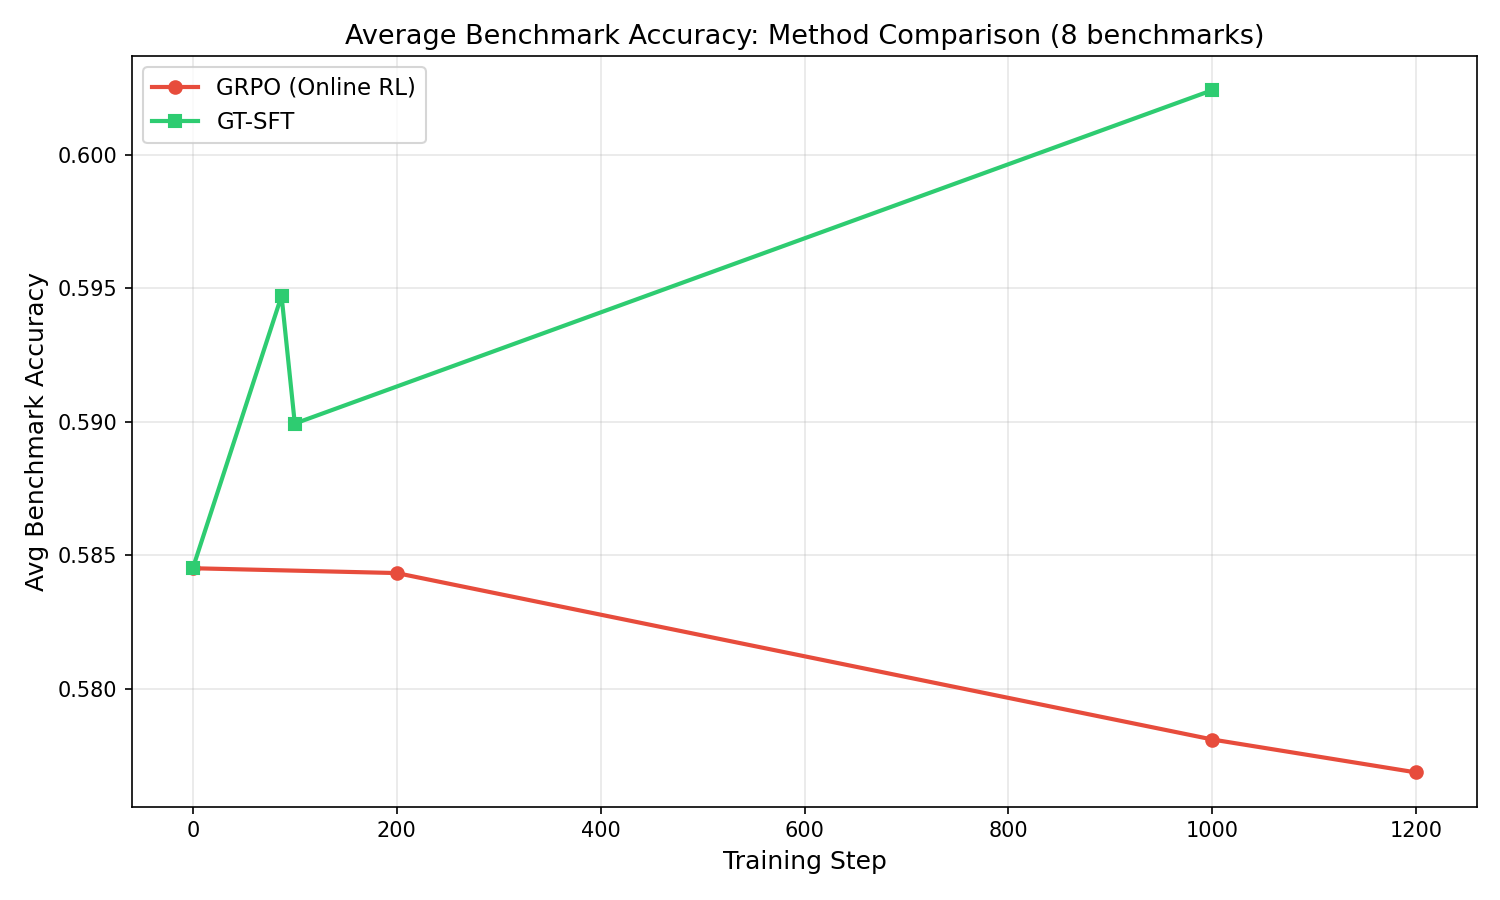
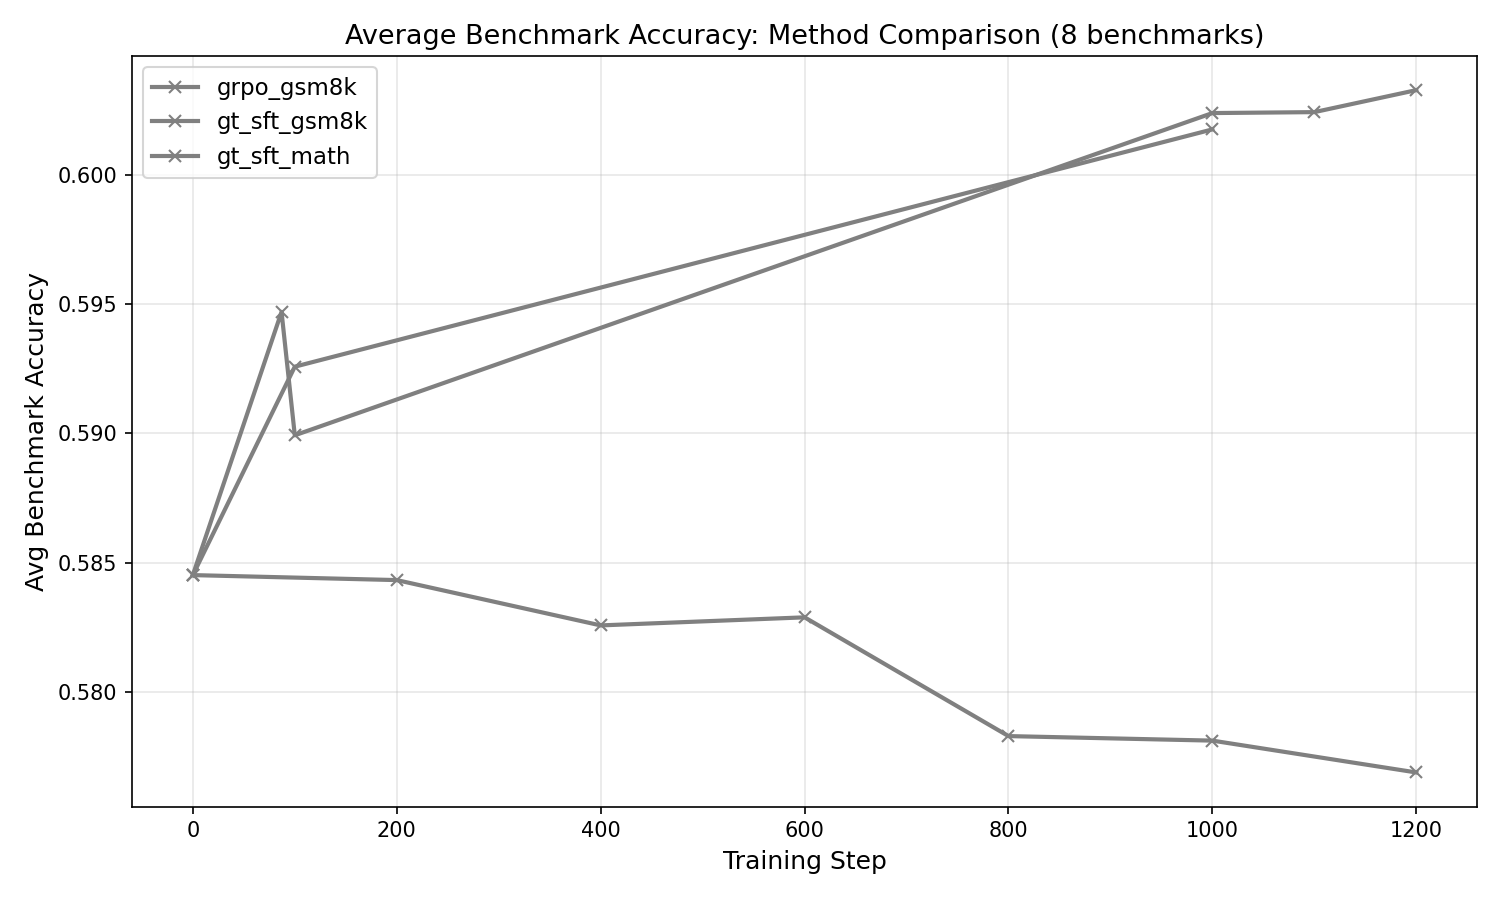
Update STATUS.md with GT-SFT MATH results, L40S validation, cross-dataset plots
- GT-SFT MATH eval sweep: 3/15 checkpoints done, +0.0134 avg (no forgetting)
- Add cross-dataset comparison plots (GSM8K + MATH)
- Add GT-SFT MATH individual forgetting plots
- Update comparison plots to include GT-SFT MATH alongside GRPO GSM8K and GT-SFT GSM8K
- Add task accuracy table (GRPO: 59→87%, GT-SFT: 59→55%)
- Document L40S GPU validation and updated QOS limits
- Update eval sweep status with L40S job IDs

diff --git a/STATUS.md b/STATUS.md
@@ -1,6 +1,6 @@
 # Experiment Status Tracker
 
-**Last updated:** 2026-03-02
+**Last updated:** 2026-03-03
 **WandB:** [forgetting-llms project](https://wandb.ai/laurent-charlin/forgetting-llms)
 **Repo:** [github.com/Emilianopp/forgetting-llms](https://github.com/Emilianopp/forgetting-llms)
 
@@ -29,7 +29,7 @@
 | MMLU | Broad knowledge (57 subjects) | acc |
 | IFEval | Instruction following | prompt_level_strict_acc |
 
-All 0-shot via `lm-evaluation-harness`. ~1.5h per checkpoint on 1x A100.
+All 0-shot via `lm-evaluation-harness`. ~1.5h per checkpoint on 1x A100/L40S.
 
 ### Training Datasets
 
@@ -95,20 +95,30 @@ All checkpoint paths relative to `~/scratch/forgetting-llms/`.
 
 ### Eval Sweeps (10 benchmarks)
 
-| Run | Total Ckpts | Done | Status | Notes |
-|-----|-------------|------|--------|-------|
-| GRPO GSM8K | 6 + base | **7/7** | **COMPLETE** (8-bench) | Old run, 8 benchmarks only |
-| GRPO GSM8K | 6 + base | 3/7 | QUEUED | 10-bench re-eval (job 8847627) |
-| GT-SFT GSM8K | 15 + base | 4/16 | QUEUED | Resumable (job 8847628) |
-| GT-SFT MATH | 14 + base | 2/15 | RUNNING | 8840042 (step 1000 in progress), then 8847629 |
-| GT-SFT TriviaQA | 15 + base | 0/16 | QUEUED | Resumable (job 8847630) |
-| GRPO MATH | 4 + base | 0/5 | QUEUED | Resumable (job 8847631) |
-| GRPO TriviaQA | 5 + base | 0/6 | QUEUED | Resumable (job 8847632) |
-| SF-SFT GSM8K | — | — | BLOCKED | Training not started |
-| SF-SFT MATH | — | — | BLOCKED | Training not started |
-| SF-SFT TriviaQA | — | — | BLOCKED | Training not started |
+| Run | Total Ckpts | Done | Status | GPU | Notes |
+|-----|-------------|------|--------|-----|-------|
+| GRPO GSM8K | 6 + base | **7/7** | **COMPLETE** | A100 | 10 benchmarks |
+| GT-SFT GSM8K | 6 + base | **6/6** | **COMPLETE** | A100 | 8 benchmarks (steps 0, 87, 100, 1000–1200) |
+| GT-SFT MATH | 14 + base | 3/15 | **RUNNING** | L40S | Job 8864513 on cn-l037 |
+| GRPO MATH | 4 + base | 1/5 | **RUNNING** | L40S | Job 8864514 on cn-l054 |
+| GT-SFT TriviaQA | 15 + base | 0/16 | QUEUED | L40S | Job 8864515, depends on GT-SFT MATH |
+| GRPO TriviaQA | 5 + base | 0/6 | QUEUED | L40S | Job 8864516, depends on GRPO MATH |
+| SF-SFT GSM8K | — | — | BLOCKED | — | Training not started |
+| SF-SFT MATH | — | — | BLOCKED | — | Training not started |
+| SF-SFT TriviaQA | — | — | BLOCKED | — | Training not started |
 
-Eval sweeps auto-resubmit on timeout via `eval_sweep_resumable.sh`.
+**Task Accuracy Evals** (in-distribution, via vLLM + unified_reward.py):
+
+| Run | Status | Notes |
+|-----|--------|-------|
+| GRPO GSM8K | **COMPLETE** | Base: 59.0% → Step 1200: 86.7% |
+| GT-SFT GSM8K | **COMPLETE** | Base: 59.0% → Step 1401: 54.7% (drops!) |
+| GT-SFT MATH | QUEUED | Job 8864517 |
+| GRPO MATH | QUEUED | Job 8864518 |
+| GT-SFT TriviaQA | QUEUED | Job 8864519 |
+| GRPO TriviaQA | QUEUED | Job 8864520 |
+
+All new jobs on L40S GPUs (46GB VRAM, validated). 2 jobs run in parallel (QOS: 8 CPU, 2 GPU limit).
 
 ---
 
@@ -168,29 +178,35 @@ Eval sweeps auto-resubmit on timeout via `eval_sweep_resumable.sh`.
 
 *15-checkpoint eval with 10 benchmarks in progress (4/16 done).*
 
-### GT-SFT MATH — Preliminary (10 benchmarks, step 100 only)
+### GT-SFT MATH — Forgetting (10 benchmarks, steps 0–1000)
 
-> Early results: GT-SFT on MATH also shows improvement on most benchmarks, with IFEval drop.
+> GT-SFT on MATH shows **no forgetting** — improvement on 9/10 benchmarks. Only IFEval drops.
 
-![GT-SFT MATH Forgetting Curves](figures/eval_results/gt_sft_math_forgetting_curves.png)
+![GT-SFT MATH Forgetting Curves](figures/eval_results/gt_sft_math/forgetting_curves.png)
 
-| Benchmark | Base | Step 100 | Delta |
-|-----------|------|----------|-------|
-| arc_challenge | 0.4309 | 0.4420 | +0.0111 |
-| arc_easy | 0.7003 | 0.7146 | +0.0143 |
-| hellaswag | 0.6045 | 0.6126 | +0.0081 |
-| winogrande | 0.6069 | 0.6180 | +0.0111 |
-| piqa | 0.7247 | 0.7280 | +0.0033 |
-| boolq | 0.7771 | 0.7878 | +0.0107 |
-| openbookqa | 0.3720 | 0.3800 | +0.0080 |
-| truthfulqa_mc2 | 0.4597 | 0.4577 | -0.0020 |
-| mmlu | 0.5546 | 0.5681 | +0.0135 |
-| ifeval | 0.1756 | 0.1368 | **-0.0388** |
-| **Average** | | | **+0.0039** |
+![GT-SFT MATH Delta](figures/eval_results/gt_sft_math/delta_from_baseline.png)
 
-*More checkpoints evaluating — step 1000 in progress.*
+![GT-SFT MATH Heatmap](figures/eval_results/gt_sft_math/heatmap.png)
 
-### Comparison: GRPO vs GT-SFT on GSM8K
+| Benchmark | Base | Step 100 | Step 1000 | Delta (1000) |
+|-----------|------|----------|-----------|-------------|
+| arc_challenge | 0.4309 | 0.4420 | 0.4505 | **+0.0196** |
+| arc_easy | 0.7003 | 0.7146 | 0.7269 | **+0.0265** |
+| hellaswag | 0.6045 | 0.6126 | 0.6266 | **+0.0221** |
+| winogrande | 0.6069 | 0.6180 | 0.6219 | **+0.0150** |
+| piqa | 0.7247 | 0.7280 | 0.7361 | **+0.0114** |
+| boolq | 0.7771 | 0.7878 | 0.7994 | **+0.0223** |
+| openbookqa | 0.3720 | 0.3800 | 0.3860 | **+0.0140** |
+| truthfulqa_mc2 | 0.4597 | 0.4577 | 0.4668 | **+0.0071** |
+| mmlu | 0.5546 | 0.5681 | 0.5688 | **+0.0142** |
+| ifeval | 0.1756 | 0.1368 | 0.1571 | **-0.0185** |
+| **Average** | | | | **+0.0134** |
+
+*12 more checkpoints evaluating (job 8864513 on L40S).*
+
+### Comparison: GRPO vs GT-SFT (GSM8K + MATH)
+
+Three methods compared: GRPO on GSM8K, GT-SFT on GSM8K, GT-SFT on MATH.
 
 #### Benchmark Accuracy (absolute scores per step)
 
@@ -206,12 +222,26 @@ Eval sweeps auto-resubmit on timeout via `eval_sweep_resumable.sh`.
 
 ![Comparison Heatmap](figures/comparison/heatmap_comparison.png)
 
+#### Cross-Dataset Summary
+
+![Cross-Dataset Summary](figures/comparison_cross/cross_dataset_summary.png)
+
+#### Task Accuracy (In-Distribution)
+
+| Method | Dataset | Base | Best Step | Best Acc | Trend |
+|--------|---------|------|-----------|----------|-------|
+| GRPO | GSM8K | 59.0% | 600 | **87.0%** | +28pp, huge gain |
+| GT-SFT | GSM8K | 59.0% | 87 | 56.6% | -4pp, drops and stays low |
+| GRPO | MATH | — | — | — | Eval pending |
+| GT-SFT | MATH | — | — | — | Eval pending |
+
 **Key findings:**
-- **GT-SFT improves benchmark accuracy** — scores go UP across all 8 benchmarks (+0.0179 avg at step 1000)
-- **GRPO degrades benchmark accuracy** — mild forgetting (-0.0045 avg at step 1200), worst on BoolQ (-0.022) and TruthfulQA (-0.016)
-- Both learn the same task (GSM8K math), suggesting **the training method, not the data, drives forgetting**
-- MMLU and IFEval (10-bench) show no GRPO forgetting — forgetting concentrates on simpler benchmarks
-- GT-SFT accuracy increases monotonically through step 1000; GRPO accuracy drops early then partially recovers
+- **GT-SFT improves OOD benchmarks** — scores go UP on both GSM8K (+0.019 avg) and MATH (+0.013 avg). No forgetting.
+- **GRPO degrades OOD benchmarks** — mild forgetting on GSM8K (-0.008 avg), worst on BoolQ (-0.022) and TruthfulQA (-0.016)
+- **GRPO dramatically improves task accuracy** (59% → 87% on GSM8K), while **GT-SFT drops task accuracy** (59% → 55%)
+- The GT-SFT task accuracy drop is likely a **generation format mismatch**: base model uses `<think>` reasoning mode which SFT training disrupts
+- GT-SFT on MATH shows same pattern as GSM8K: OOD benchmarks improve, IFEval is the only one that drops
+- **The training method, not the data, drives forgetting**: same GSM8K data, opposite forgetting outcomes
 
 ---
 
@@ -235,22 +265,27 @@ All data in `~/scratch/forgetting-llms/data/`.
 
 ## Cluster Notes
 
-- **QOS limit**: ~96G total memory across running+pending jobs on `main` partition
-- **Eval speed**: ~1.5h per checkpoint (10 benchmarks, batch_size=1, 1x A100)
+- **QOS limit (main)**: cpu=8, gpu=2, mem=48G per user — max 2 concurrent eval jobs
+- **L40S validated**: Smoke test passed (CUDA, transformers, vLLM, lm_eval). 46GB VRAM, compute 8.9, batch_size=1 for evals
+- **Eval speed**: ~1.5h per checkpoint (10 benchmarks, batch_size=1, 1x A100 or L40S)
+- **Task accuracy eval**: ~20-30 min per experiment (all checkpoints, vLLM generation + grading)
 - **Trajectory gen**: MATH ~6.5h, TriviaQA ~1.7h, GSM8K ~3.5h (Qwen3-32B, TP=2)
 - **SFT training**: ~2-3h for 3 epochs (~1400 steps), 2x A100
 - **GRPO training**: ~4-8h for 15 epochs, 2x A100
-- Resumable evals via `eval_sweep_resumable.sh` (Slurm signal + auto-resubmit)
 - Jobs chained via `--dependency=afterany` to stay within QOS
+- All new eval jobs use L40S (`--gres=gpu:l40s:1 --cpus-per-task=4`)
 
 ---
 
 ## TODO
 
-- [ ] Finish 6 eval sweeps (10 benchmarks) — running now, auto-resume
+- [ ] Finish 4 remaining eval sweeps (GT-SFT MATH, GRPO MATH, GT-SFT TriviaQA, GRPO TriviaQA) — running on L40S
+- [ ] Finish 4 remaining task accuracy evals — queued, chained after sweeps
+- [x] Validate L40S GPUs for eval pipeline
+- [ ] Investigate GT-SFT task accuracy drop (59% → 55%) — likely `<think>` mode disruption
 - [ ] Submit SF-SFT training (3 datasets) — data ready
 - [ ] Submit SF-SFT eval sweeps (3 runs)
-- [ ] Regenerate comparison plots with full 10-benchmark data
+- [ ] Regenerate comparison plots with all 6 experiments complete
 - [ ] Start Phase 2: Qwen3-4B (repeat all experiments)
 - [ ] CF-SFT: need Llama-3.1-70B trajectories
 - [ ] SELF/SPIN: needs implementation
